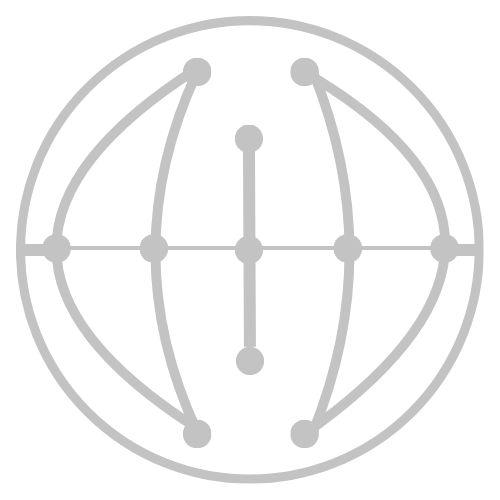
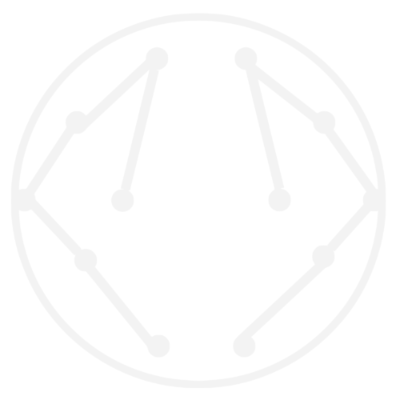
updated UI

Changed region(s): [[0.03, 0.03, 0.99, 0.99]]

diff --git a/main.py b/main.py
@@ -1,3 +1,5 @@
+# change on_toggle and send_command
+
 from kivymd.app import MDApp
 from kivy.lang import Builder
 from kivy.clock import Clock
@@ -241,7 +243,7 @@ class DemoApp(MDApp):
             print(f"Connection failed: {e}")
             screen.status_text = "Connection Failed"
 
-    # Sends command and changes button color when pressed
+    # Toggle card and send command when ElementCard is pressed 
     def on_toggle_press(self, element_card):
         card_text = element_card.text.strip()
         command = self.command_map.get(card_text)
@@ -249,10 +251,18 @@ class DemoApp(MDApp):
             print(f"No command mapped for {card_text}")
             return
 
+        # Ensure original image is stored the first time (so we can toggle back to it)
+        if not hasattr(element_card, "original_image_source"):
+            element_card.original_image_source = element_card.image_source
+
         if element_card.active:
             # Toggled Off
             print(f"OFF: {card_text}")
             element_card.active = False
+
+            # Switch back to light image
+            element_card.image_source = element_card.original_image_source
+
             if self.current_element == element_card:
                 self.current_element = None
             self.send_command("off", element_card)
@@ -261,8 +271,18 @@ class DemoApp(MDApp):
             print(f"ON: {card_text}\nCommand: {command}")
             if self.current_element and self.current_element != element_card:
                 self.current_element.active = False
+
+                # Reset the image of the previous card
+                if hasattr(self.current_element, "original_image_source"):
+                    self.current_element.image_source = self.current_element.original_image_source
+
             element_card.active = True
             self.current_element = element_card
+
+            # Switch to dark image
+            if hasattr(element_card, "dark_image_source"):
+                element_card.image_source = element_card.dark_image_source
+
             self.send_command(command, element_card)
 
     # Function to send command
